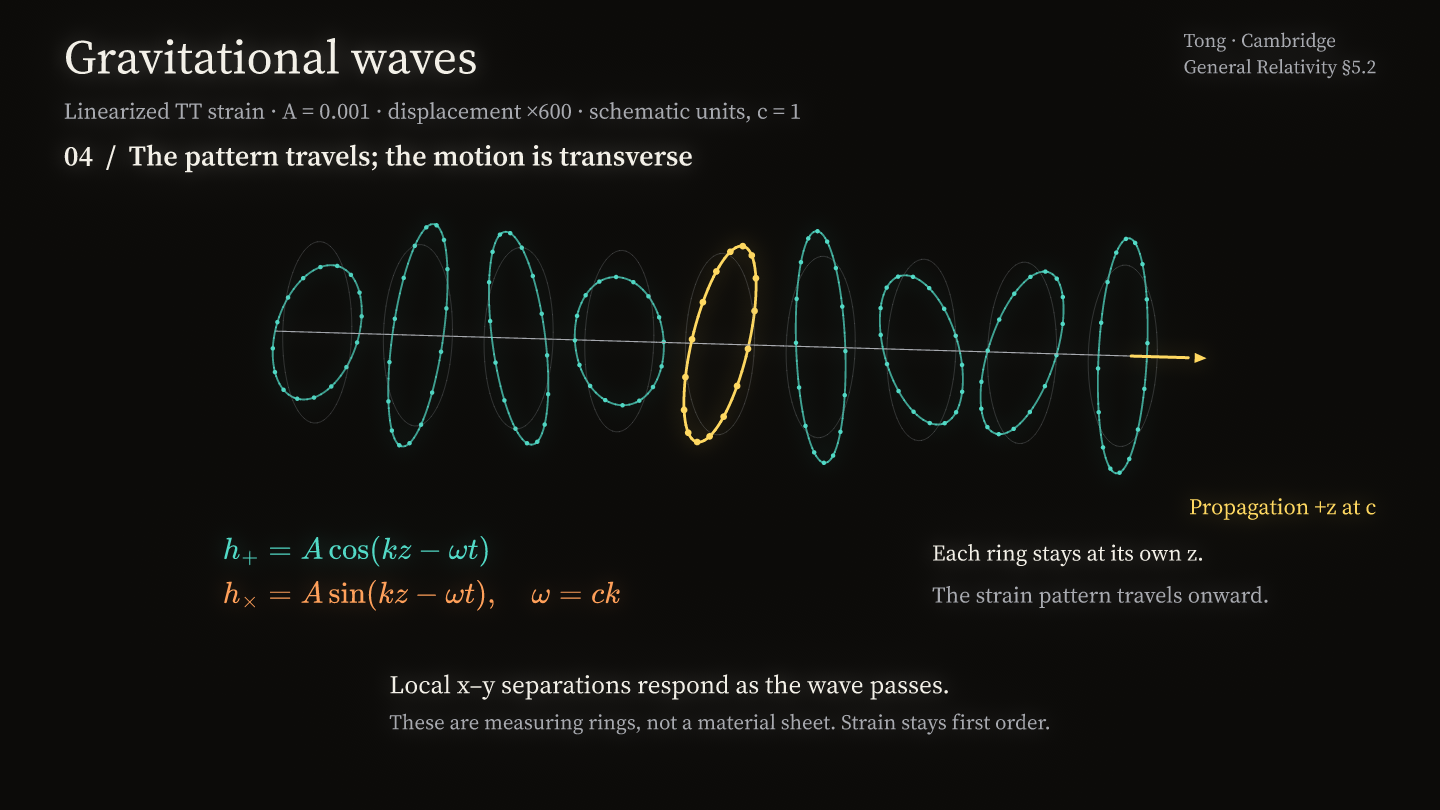
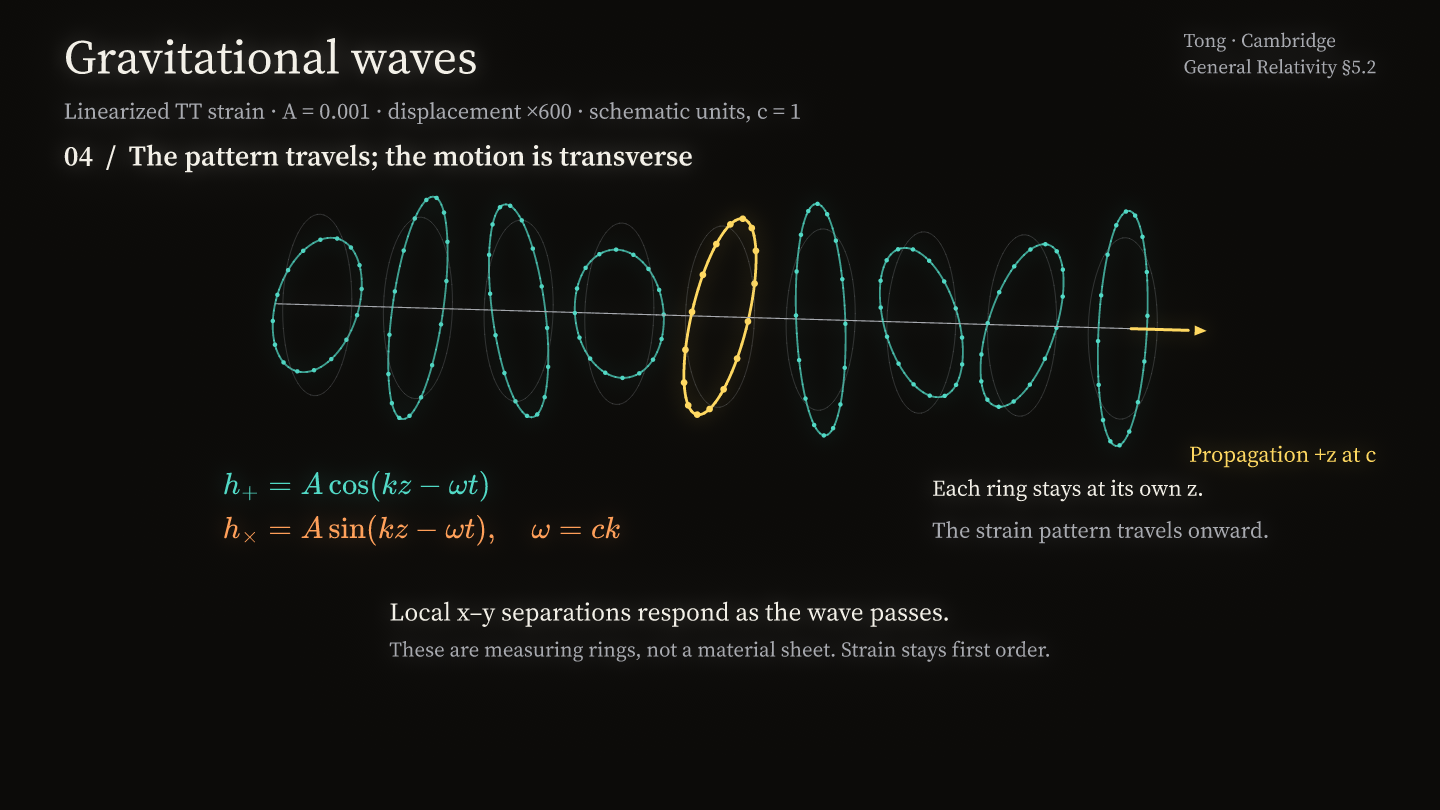
Keep Canvas frames deterministic and captions clear

diff --git a/examples/films/quantum-tunneling.ts b/examples/films/quantum-tunneling.ts
@@ -13,12 +13,13 @@ export default film({
     const models = WIDTHS.map((width) => scattering(width))
     const experiment = s.value(0), phaseTime = s.value(0)
     const model = () => models[experiment.value]!
-    const kit = sceneKit({ size: 40, area: { left: -860, right: 860, top: -320, bottom: 380 }, heading: { size: 68, y: -466 }, source: { size: 27, y: -401 } })
+    const kit = sceneKit({ size: 40, area: { left: -860, right: 860, top: -320, bottom: 294 }, heading: { size: 68, y: -466 }, source: { size: 27, y: -401 } })
     s.add(kit.heading('A barrier is not a wall.'))
     s.add(kit.source(`Exact stationary scattering · D. Tong, Quantum Mechanics §2.4.2 · E / V₀ = ${ENERGY}`))
+    s.add(place(text('Yellow band: V₀ = 1.  Outside: V = 0.  Units: ℏ = 2m = V₀ = 1.  Incident amplitude = 1.', { size: 27, color: 'dim' }), new Box(-860, -374, 860, -338), 'left'))
     const [left, right] = kit.area.columns([2.1, 1], 80)
-    const waveRegion = new Box(left.left + 30, -240, left.right - 10, -10)
-    const densityRegion = new Box(left.left + 30, 164, left.right - 10, 344)
+    const waveRegion = new Box(left.left + 30, -240, left.right - 10, -26)
+    const densityRegion = new Box(left.left + 30, 130, left.right - 10, 282)
     const x: readonly [number, number] = [-9, 9]
     const waves = axes({ x, y: [-2.1, 2.1], width: waveRegion.width, height: waveRegion.height, xTicks: [], yTicks: [], labelSize: 27, tips: false })
     const density = axes({ x, y: [0, 4.2], width: densityRegion.width, height: densityRegion.height, xTicks: [-8, -4, 0, 4, 8], yTicks: [], labelSize: 27, tips: false })
@@ -44,18 +45,18 @@ export default film({
         text('Complex amplitude', { size: 32 }), text('real', { size: 30, color: 'blue' }), text('imaginary', { size: 30, color: 'pink' }),
     ], { gap: 28 })
     s.add(place(waveLegend, new Box(left.left, -320, left.right, -274), 'left'))
-    const phaseRegion = new Box(waveRegion.left, 56, waveRegion.right, 86)
+    const phaseRegion = new Box(waveRegion.left, 32, waveRegion.right, 56)
     const phaseColors = ['teal', 'blue', 'purple', 'pink', 'orange', 'yellow', 'teal'] as const
     const phaseField = scalarField((x) => {
         const z = model().psi(x, phaseTime.value)
         return Math.atan2(z[1], z[0])
     }, { x, y: [0, 1], domain: [-Math.PI, Math.PI], colors: phaseColors, width: phaseRegion.width, height: phaseRegion.height, resolution: [400, 2] })
-    s.add(place(text('Phase angle (hue)', { size: 27, color: 'dim' }), new Box(left.left, 12, left.right, 48), 'left'))
+    s.add(place(text('Phase angle (hue)', { size: 27, color: 'dim' }), new Box(left.left, -12, left.right, 24), 'left'))
     s.add(place(phaseField, phaseRegion))
-    s.add(place(row([tex('|\\Psi|^2', { size: 32, color: 'teal' }), text('relative probability density', { size: 30, color: 'teal' })], { gap: 16 }), new Box(left.left, 106, left.right, 150), 'left'))
-    s.add(place(text('position x', { size: 27, color: 'dim' }), new Box(left.left, 394, left.right, 432)))
+    s.add(place(row([tex('|\\Psi|^2', { size: 32, color: 'teal' }), text('relative probability density', { size: 30, color: 'teal' })], { gap: 16 }), new Box(left.left, 70, left.right, 114), 'left'))
+    s.add(place(text('position x', { size: 27, color: 'dim' }), new Box(left.left, 324, left.right, 360)))
 
-    const [chapterRegion, equationRegion, bodyRegion, currentRegion, chartRegion] = right.rows([0.6, 1, 1.9, 1.1, 2], 20)
+    const [chapterRegion, equationRegion, bodyRegion, currentRegion, chartRegion] = right.rows([0.6, 1, 1.9, 1.1, 2], 15)
     const words = [
         ['Below the barrier', 'The wave and its slope join at both edges. An oscillating transmitted wave survives where a classical particle cannot pass.'],
         ['Phase moves. Density holds.', 'A common phase rotates the complex wave. Its squared magnitude stays fixed. This is a stationary state, with no launched wave packet.'],
@@ -84,12 +85,10 @@ export default film({
     s.add(curve)
     s.add(place(text('Transmission T vs width L', { size: 27, color: 'dim' }), new Box(right.left, chartRegion.top - 12, right.right, chartRegion.top + 24), 'left'))
     const phaseKey = scalarField((angle) => angle, { x: [-Math.PI, Math.PI], y: [0, 1], domain: [-Math.PI, Math.PI], colors: phaseColors, width: right.width, height: 12, resolution: [160, 2] })
-    s.add(place(phaseKey, new Box(right.left, 395, right.right, 407)))
+    s.add(place(phaseKey, new Box(right.left, 310, right.right, 322)))
     for (const [px, label] of [[right.left + 14, '-\\pi'], [right.cx, '0'], [right.right - 14, '\\pi']] as const) {
-        s.add(tex(label, { size: 27, color: 'dim' }).moveTo([px, 429]))
+        s.add(tex(label, { size: 27, color: 'dim' }).moveTo([px, 344]))
     }
-    const footer = new Box(-860, 454, 860, 500)
-    s.add(place(text('Yellow band: V₀ = 1.  Outside: V = 0.  Units: ℏ = 2m = V₀ = 1.  Incident amplitude = 1.', { size: 27, color: 'dim' }), footer, 'left'))
 
     const change = (index: number, equationFrom?: number, equationTo?: number, nextExperiment?: number) => {
         s.play(fadeOut([headings[index - 1]!, bodies[index - 1]!]), { duration: 0.25 })

diff --git a/examples/films/gravitational-waves.ts b/examples/films/gravitational-waves.ts
@@ -6,7 +6,7 @@ import {
 import { displayGain, ringPoint, separation, strain, strainAmplitude, type Polarization } from './_gravitational-waves/model'
 
 const DURATION = 42
-const RADIUS = 192
+const RADIUS = 164
 const modeAt = (t: number): Polarization => t < 10 ? 'plus' : t < 20 ? 'cross' : 'circular'
 const visibility = (t: number): number => Math.min(1, ...[10, 20, 29].map((cut) => Math.abs(t - cut) / 0.22))
 
@@ -15,7 +15,7 @@ export default film({
     description: 'Linearized transverse-traceless strain, plus and cross polarizations, circular superposition, and a plane wave propagating at c. Test-mass separations are magnified 600 times. The rings are local measuring arrangements, not material space.',
     look: 'midnight', font: 'text-serif', fps: 60, poster: 35,
 }, (s) => {
-    const kit = sceneKit({ heading: { size: 64, y: -466 }, area: { left: -875, right: 875, top: -286, bottom: 300 } })
+    const kit = sceneKit({ heading: { size: 64, y: -466 }, area: { left: -875, right: 875, top: -286, bottom: 200 } })
     s.add(kit.heading('Gravitational waves'))
     s.add(place(column([
         text('Tong · Cambridge', { size: 26, color: 'dim' }),
@@ -24,7 +24,7 @@ export default film({
     s.add(place(text('Linearized TT strain · A = 0.001 · displacement ×600 · schematic units, c = 1', { size: 30, color: 'dim' }),
         new Box(-875, -416, 875, -370), 'left'))
     const chapterBox = new Box(-875, -357, 875, -310)
-    const footerBox = new Box(-875, 349, 875, 441)
+    const footerBox = new Box(-875, 252, 875, 344)
     const [ringBox, detailBox] = kit.area.columns([1.5, 1], 70)
     const center: Vec = ringBox.point()
     const at = (x: number, y: number): Vec => [center[0] + RADIUS * x, center[1] - RADIUS * y]
@@ -57,19 +57,19 @@ export default film({
     })
     s.add(ring)
     const axisNames = [
-        place(text('x', { size: 30, color: 'dim' }), new Box(center[0] + 294, center[1] - 24, center[0] + 344, center[1] + 24)),
-        place(text('y', { size: 30, color: 'dim' }), new Box(center[0] - 24, ringBox.top - 12, center[0] + 24, ringBox.top + 32)),
-        place(text('Local separations in the x–y plane', { size: 28, color: 'dim' }), new Box(ringBox.left, 305, ringBox.right, 342)),
+        place(text('x', { size: 30, color: 'dim' }), new Box(center[0] + 252, center[1] - 24, center[0] + 300, center[1] + 24)),
+        place(text('y', { size: 30, color: 'dim' }), new Box(center[0] - 24, ringBox.top - 29, center[0] + 24, ringBox.top + 15)),
+        place(text('Local separations in the x–y plane', { size: 28, color: 'dim' }), new Box(ringBox.left, 210, ringBox.right, 244)),
     ]
     s.add(axisNames)
     s.at(28.7, () => s.play(fadeOut(axisNames), { duration: 0.22 }))
 
     const [equationBox, responseBox] = detailBox.rows([0.49, 0.51], 30)
     const matrix = place(column([
-        tex('h^{\\mathrm{TT}}_{ab}=\\begin{pmatrix}h_+&h_\\times\\\\h_\\times&-h_+\\end{pmatrix}', { size: 42 }),
-        tex('\\Delta\\mathbf r=\\tfrac12 h^{\\mathrm{TT}}\\mathbf r_0', { size: 42 }),
+        tex('h^{\\mathrm{TT}}_{ab}=\\begin{pmatrix}h_+&h_\\times\\\\h_\\times&-h_+\\end{pmatrix}', { size: 36 }),
+        tex('\\Delta\\mathbf r=\\tfrac12 h^{\\mathrm{TT}}\\mathbf r_0', { size: 36 }),
         text('a, b = x, y   ·   first order in h', { size: 28, color: 'dim' }),
-    ], { gap: 26 }), equationBox)
+    ], { gap: 18 }), equationBox)
     s.add(matrix)
     s.at(28.7, () => s.play(fadeOut(matrix), { duration: 0.22 }))
 
@@ -95,9 +95,9 @@ export default film({
     s.add(gauges)
     const [phaseTitleBox, phasePlotBox] = responseBox.rows([0.2, 0.8], 14)
     const phaseTitle = place(text('Equal amplitudes, a quarter-cycle apart', { size: 29 }), phaseTitleBox)
-    const phasePlot = place(axes({ x: [-1.4, 1.4], y: [-1.4, 1.4], width: 200, height: 200,
+    const phasePlot = place(axes({ x: [-1.4, 1.4], y: [-1.4, 1.4], width: 172, height: 172,
         xTicks: [-1, 0, 1], yTicks: [-1, 0, 1], labels: false, tips: false, color: 'dim' }), phasePlotBox)
-    phasePlot.add(circle(200 / 2.8, { stroke: 'dim', width: 2, dash: [5, 7] }))
+    phasePlot.add(circle(172 / 2.8, { stroke: 'dim', width: 2, dash: [5, 7] }))
     phasePlot.add(dynamic((t) => {
         if (t < 20 || t >= 29) return []
         const { plus, cross } = strain(0, t, 'circular')
@@ -138,7 +138,7 @@ export default film({
     })
     s.add(wave)
     const propagationLabel = place(text('Propagation +z at c', { size: 30, color: 'yellow' }),
-        new Box(510, 112, 875, 157), 'right')
+        new Box(510, 42, 875, 87), 'right')
     const [equations, explanation] = propagationMath.columns([1.3, 1], 60)
     const travelingEquations = place(column([
         tex('h_+=A\\cos(kz-\\omega t)', { size: 36, color: 'teal' }),

diff --git a/examples/films/stationary-action.ts b/examples/films/stationary-action.ts
@@ -11,7 +11,7 @@ export default film({
     description: 'A ballistic path in uniform gravity, compared with fixed-endpoint sine variations. Actual integrals converge quadratically to stationary action. This example is a minimum; the general principle is stationarity.',
     look: 'midnight', font: 'text-serif', fps: 60, poster: 30,
 }, (s) => {
-    const kit = sceneKit({ heading: { size: 64, y: -466 }, area: { left: -875, right: 875, top: -290, bottom: 302 } })
+    const kit = sceneKit({ heading: { size: 64, y: -466 }, area: { left: -875, right: 875, top: -290, bottom: 200 } })
     s.add(kit.heading('Stationary action'))
     s.add(place(column([
         text('Tong · Cambridge', { size: 26, color: 'dim' }),
@@ -21,10 +21,10 @@ export default film({
         new Box(-875, -416, 875, -370), 'left'))
 
     const chapterBox = new Box(-875, -357, 875, -310)
-    const footerBox = new Box(-875, 350, 875, 438)
+    const footerBox = new Box(-875, 252, 875, 344)
     const [geometry, information] = kit.area.columns([1.5, 1], 70)
     const plot = place(axes({
-        x: [-0.65, 12.65], y: [-0.55, 7.45], width: 910, height: 547.4,
+        x: [-0.65, 12.65], y: [-0.55, 7.45], width: 760, height: 760 * 8 / 13.3,
         xTicks: [0, 3, 6, 9, 12], yTicks: [2, 4, 6], labelSize: 28,
         grid: true, tips: false, color: 'dim',
     }), geometry)
@@ -34,7 +34,7 @@ export default film({
     s.add(rect(heightBounds.width + 24, heightBounds.height + 24, { fill: 'bg', stroke: null })
         .at(heightBounds.x + heightBounds.width / 2, heightBounds.y + heightBounds.height / 2).zIndex(8))
     s.add(heightLabel.zIndex(9))
-    s.add(place(text('horizontal distance / m', { size: 27, color: 'dim' }), new Box(geometry.left, 305, geometry.right, 340)))
+    s.add(place(text('horizontal distance / m', { size: 27, color: 'dim' }), new Box(geometry.left, 208, geometry.right, 244)))
     const elapsed = s.value(0), family = s.value(0), epsilon = s.value(1.6), sweep = s.value(0)
     const physical = plot.plot((x) => path(x / 6)[1], { from: 0, to: () => 6 * elapsed.value, stroke: 'teal', width: 6, glow: 3 })
     plot.add(dynamic(() => {
@@ -81,7 +81,7 @@ export default film({
 
     const [integrandTitleBox, integrandBox, valuesBox] = information.rows([0.10, 0.44, 0.46], 20)
     const integrandTitle = place(text('Accumulate K − V along each path', { size: 30 }), integrandTitleBox)
-    const integrand = place(axes({ x: [0, 2.1], y: [-55, 90], width: 535, height: 190,
+    const integrand = place(axes({ x: [0, 2.1], y: [-55, 90], width: 535, height: 156,
         xTicks: [0, 1, 2], yTicks: [-40, 40, 80], labels: false, labelSize: 26, tips: false }), integrandBox)
     // Time labels sit below the negative-L region, so no curve crosses them.
     for (const t of [0, 1, 2]) {
@@ -104,12 +104,12 @@ export default film({
             ...([1.6, 0, -1.6] as const).map((e) => text(
                 `${e > 0 ? 'Upper   ' : e < 0 ? 'Lower   ' : 'Physical'} ${actionIntegral(e, sweep.value).toFixed(4)} J·s`,
                 { size: 31, font: 'mono', color: e > 0 ? 'blue' : e < 0 ? 'orange' : 'teal' })),
-        ], { gap: 18 }), valuesBox).nodes
+        ], { gap: 16 }), valuesBox).nodes
     })
 
     const [actionTitleBox, actionPlotBox, actionReadoutBox] = information.rows([0.10, 0.48, 0.42], 22)
     const actionTitle = place(text('Action S / J·s vs variation ε / m', { size: 30 }), actionTitleBox)
-    const actionPlot = place(axes({ x: [-1.9, 1.9], y: [3.5, 8.8], width: 530, height: 226,
+    const actionPlot = place(axes({ x: [-1.9, 1.9], y: [3.5, 8.8], width: 530, height: 176,
         xTicks: [-1.6, 0, 1.6], yTicks: [6, 8], labelSize: 26, tips: false }), actionPlotBox)
     actionPlot.plot(action, { from: -1.8, to: 1.8, stroke: 'dim', width: 3 })
     actionPlot.add(line(actionPlot.p(-0.68, action()), actionPlot.p(0.68, action()), { stroke: 'teal', width: 4 }))
@@ -126,7 +126,7 @@ export default film({
             text(`Trials   ${action(epsilon.value).toFixed(4)} J·s`, { size: 31, color: 'blue', font: 'mono' }),
             text(`Physical ${action().toFixed(4)} J·s`, { size: 31, color: 'teal', font: 'mono' }),
             text(`ΔS = ${(action(epsilon.value) - action()).toFixed(5)} J·s`, { size: 30, font: 'mono' }),
-        ], { gap: 14 }), actionReadoutBox).nodes
+        ], { gap: 12 }), actionReadoutBox).nodes
     })
 
     const chapters = [

diff --git a/tests/fourier-seek-browser.test.ts b/tests/fourier-seek-browser.test.ts
@@ -1,0 +1,56 @@
+import { readFile } from 'node:fs/promises'
+import { resolve } from 'node:path'
+import { build } from 'esbuild'
+import { chromium } from 'playwright'
+import { expect, it } from 'vitest'
+
+it.runIf(process.env.VIZMATIC_BROWSER_TESTS === '1')('paints Fourier identically on first, repeated, and reverse poster seeks', async () => {
+    const bundled = await build({
+        entryPoints: { stage: 'src/stage/browser.ts', fourier: 'examples/films/fourier-epicycles.ts' },
+        outdir: '/virtual-fourier', bundle: true, write: false, splitting: true,
+        format: 'esm', platform: 'browser', target: 'es2022',
+        alias: { 'vizmatic/stage': './src/stage/browser.ts' },
+        define: { __VIZMATIC_ASSET_PATH__: JSON.stringify('/assets/') },
+    })
+    const files = new Map(bundled.outputFiles.map(file => [file.path.replace('/virtual-fourier', ''), file.contents]))
+    const browser = await chromium.launch({ headless: true })
+    try {
+        const page = await browser.newPage()
+        await page.route('http://fourier.test/**', async route => {
+            const path = new URL(route.request().url()).pathname
+            if (path.startsWith('/assets/fonts/')) {
+                await route.fulfill({ contentType: 'font/ttf', body: await readFile(resolve(`.${path}`)) })
+            } else if (files.has(path)) {
+                await route.fulfill({ contentType: 'text/javascript', body: Buffer.from(files.get(path)!) })
+            } else await route.fulfill({ contentType: 'text/html', body: '<!doctype html><title>Fourier seeks</title>' })
+        })
+        await page.goto('http://fourier.test/')
+        const results = await page.evaluate(`(async () => {
+            const engine = await import('/stage.js')
+            const definition = (await import('/fourier.js')).default
+            const results = []
+            for (const look of ['midnight', 'paper']) {
+                const film = await engine.compileFilm(definition, { look })
+                const canvas = document.createElement('canvas')
+                canvas.style.width = '1360px'
+                document.body.append(canvas)
+                const player = new engine.FilmPlayer(canvas, film, { pixelRatio: 1 })
+                const frame = () => JSON.stringify(film.frame(30.5), (key, value) => key === 'node' ? undefined : value)
+                const before = frame()
+                player.seek(30.5)
+                const first = canvas.toDataURL()
+                player.seek(30.5)
+                const repeated = first === canvas.toDataURL()
+                player.seek(0)
+                player.seek(30.5)
+                results.push({ look, frame: before === frame(), repeated, reverse: first === canvas.toDataURL() })
+                player.destroy()
+                canvas.remove()
+            }
+            return results
+        })()`)
+        expect(results).toEqual(['midnight', 'paper'].map(look => ({ look, frame: true, repeated: true, reverse: true })))
+    } finally {
+        await browser.close()
+    }
+}, 30_000)

diff --git a/src/stage/display.ts b/src/stage/display.ts
@@ -482,6 +482,16 @@ function dimCopy(source: CanvasImageSource, image: StageImage, dim: number, back
 
 /** Paint a frame to a 2D context at a device scale. Same result as the SVG backend. */
 export function paintFrame(ctx: Canvas2D, frame: Frame, scale = 1, images?: ImageLookup): void {
+    // Isolate retained paint state so earlier gradients cannot alter later glows.
+    ctx.save()
+    try {
+        paintFrameContents(ctx, frame, scale, images)
+    } finally {
+        ctx.restore()
+    }
+}
+
+function paintFrameContents(ctx: Canvas2D, frame: Frame, scale: number, images?: ImageLookup): void {
     ctx.setTransform(1, 0, 0, 1, 0, 0)
     ctx.globalAlpha = 1
     ctx.globalCompositeOperation = 'source-over'

diff --git a/.agents/skills/vizmatic/references/films.md b/.agents/skills/vizmatic/references/films.md
@@ -59,6 +59,12 @@ s.play(morphMatching(eq0, eq1), seq(fadeOut(oldNote), fadeIn(newNote)), { durati
 
 ## Sound and captions
 
+Inspect the actual player with captions enabled and controls visible in both
+looks. For a 1080p film, keep important labels and scientific limits above
+y = 900 as a starting margin; longer captions may need more room. Put sources
+and model limits near the top. A clean exported frame alone does not prove that
+player overlays leave the explanation readable.
+
 `--audio narration.wav` adds a sound track. It is padded or trimmed to the film's length, so a film that ends early cuts off the voice. Hold to the end with `s.wait(Math.max(0, voiceLength - s.time))`. `s.caption(text, seconds)` adds a caption and draws nothing into the picture. Compilation sorts cues by start time and ends each cue at the next start if they overlap. The last cue declared at the same start wins. Browser playback and VTT export use this same timeline, so older cues do not resume after replacement. Give each sentence enough reading time before introducing the next cue.
 
 An MP4 carries the film's title, its chapters as markers on the player's timeline, and its captions as a track that the viewer can switch on. The same captions are also written as a WebVTT file beside the video. No second pass with FFmpeg is needed.

diff --git a/plugins/vizmatic/skills/vizmatic/references/films.md b/plugins/vizmatic/skills/vizmatic/references/films.md
@@ -59,6 +59,12 @@ s.play(morphMatching(eq0, eq1), seq(fadeOut(oldNote), fadeIn(newNote)), { durati
 
 ## Sound and captions
 
+Inspect the actual player with captions enabled and controls visible in both
+looks. For a 1080p film, keep important labels and scientific limits above
+y = 900 as a starting margin; longer captions may need more room. Put sources
+and model limits near the top. A clean exported frame alone does not prove that
+player overlays leave the explanation readable.
+
 `--audio narration.wav` adds a sound track. It is padded or trimmed to the film's length, so a film that ends early cuts off the voice. Hold to the end with `s.wait(Math.max(0, voiceLength - s.time))`. `s.caption(text, seconds)` adds a caption and draws nothing into the picture. Compilation sorts cues by start time and ends each cue at the next start if they overlap. The last cue declared at the same start wins. Browser playback and VTT export use this same timeline, so older cues do not resume after replacement. Give each sentence enough reading time before introducing the next cue.
 
 An MP4 carries the film's title, its chapters as markers on the player's timeline, and its captions as a track that the viewer can switch on. The same captions are also written as a WebVTT file beside the video. No second pass with FFmpeg is needed.
